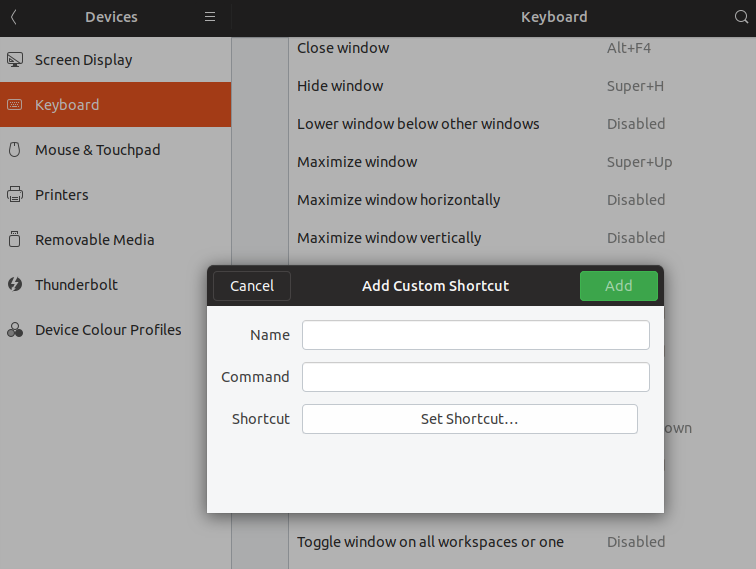
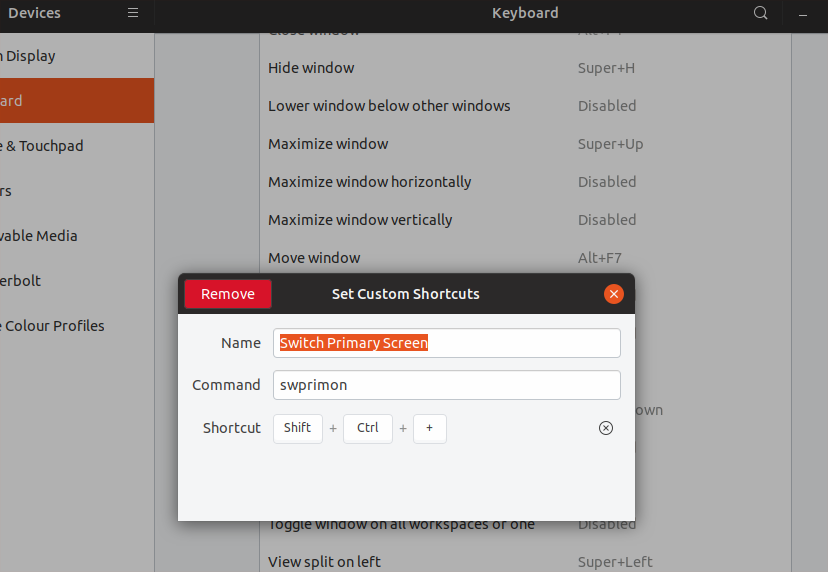
enable interactive mode as an option

diff --git a/README.md b/README.md
@@ -1,1 +1,36 @@
-Switch primary monitor
+# Switch primary monitor
+<p align="center">
+<img src="logo.png" width=180 height=180>
+</p>
+
+## Description
+Switch primary screen between any number of monitors with interactive option
+
+## Setup
+`cp swprimon.sh ~/.local/bin/swprimon`
+
+Note: make sure `~/.local/bin/` exists and in PATH
+
+
+## Usage
+- **Interactive:** `SWPRIMON_INT=1 swprimon`
+  ```
+  > SWPRIMON_INT=1 swprimon
+  select new primary monitor:
+  - *XWAYLAND2
+  - XWAYLAND0
+  - XWAYLAND1
+  Enter Monitor name:
+  ```
+- **Non-Interactive:** Set keboard shorcut from Settings -> Devices -> Keyboard -> +
+  
+  <p align="center">
+  <img src="img2.png" width=620 height=430>
+  </p>
+
+  <p align="center">
+  <img src="img.png" width=620 height=130>
+  </p>
+
+
+  
